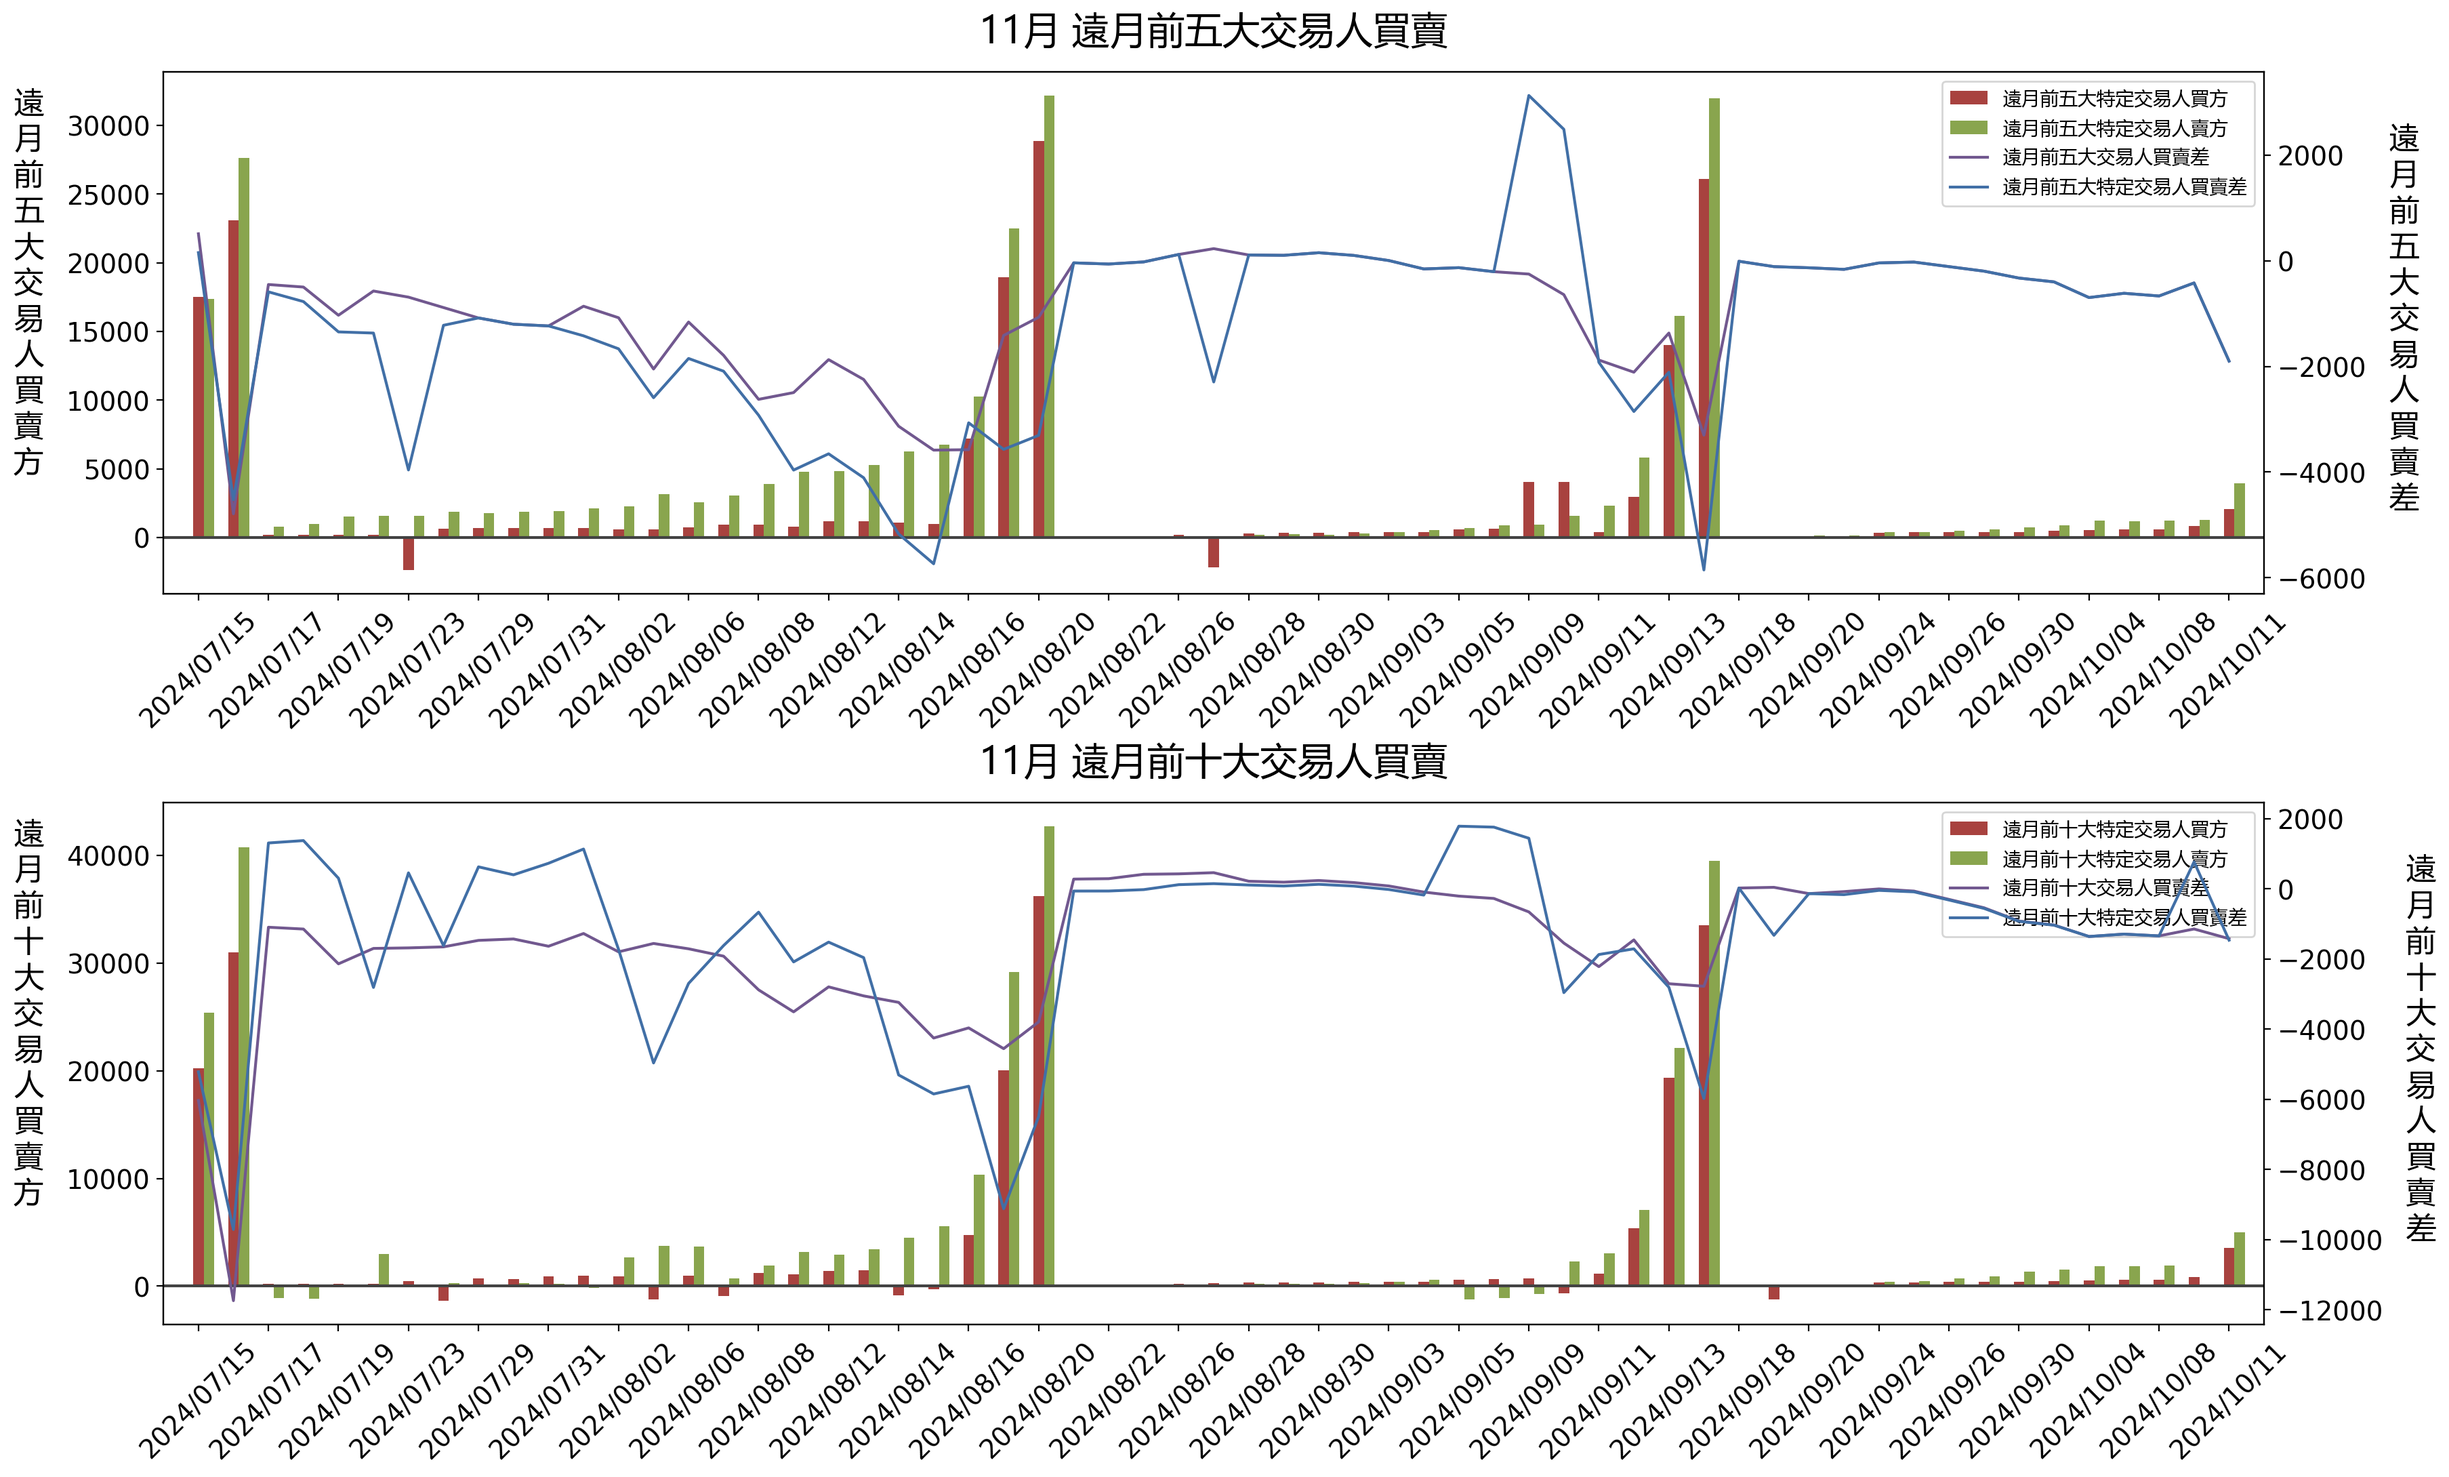
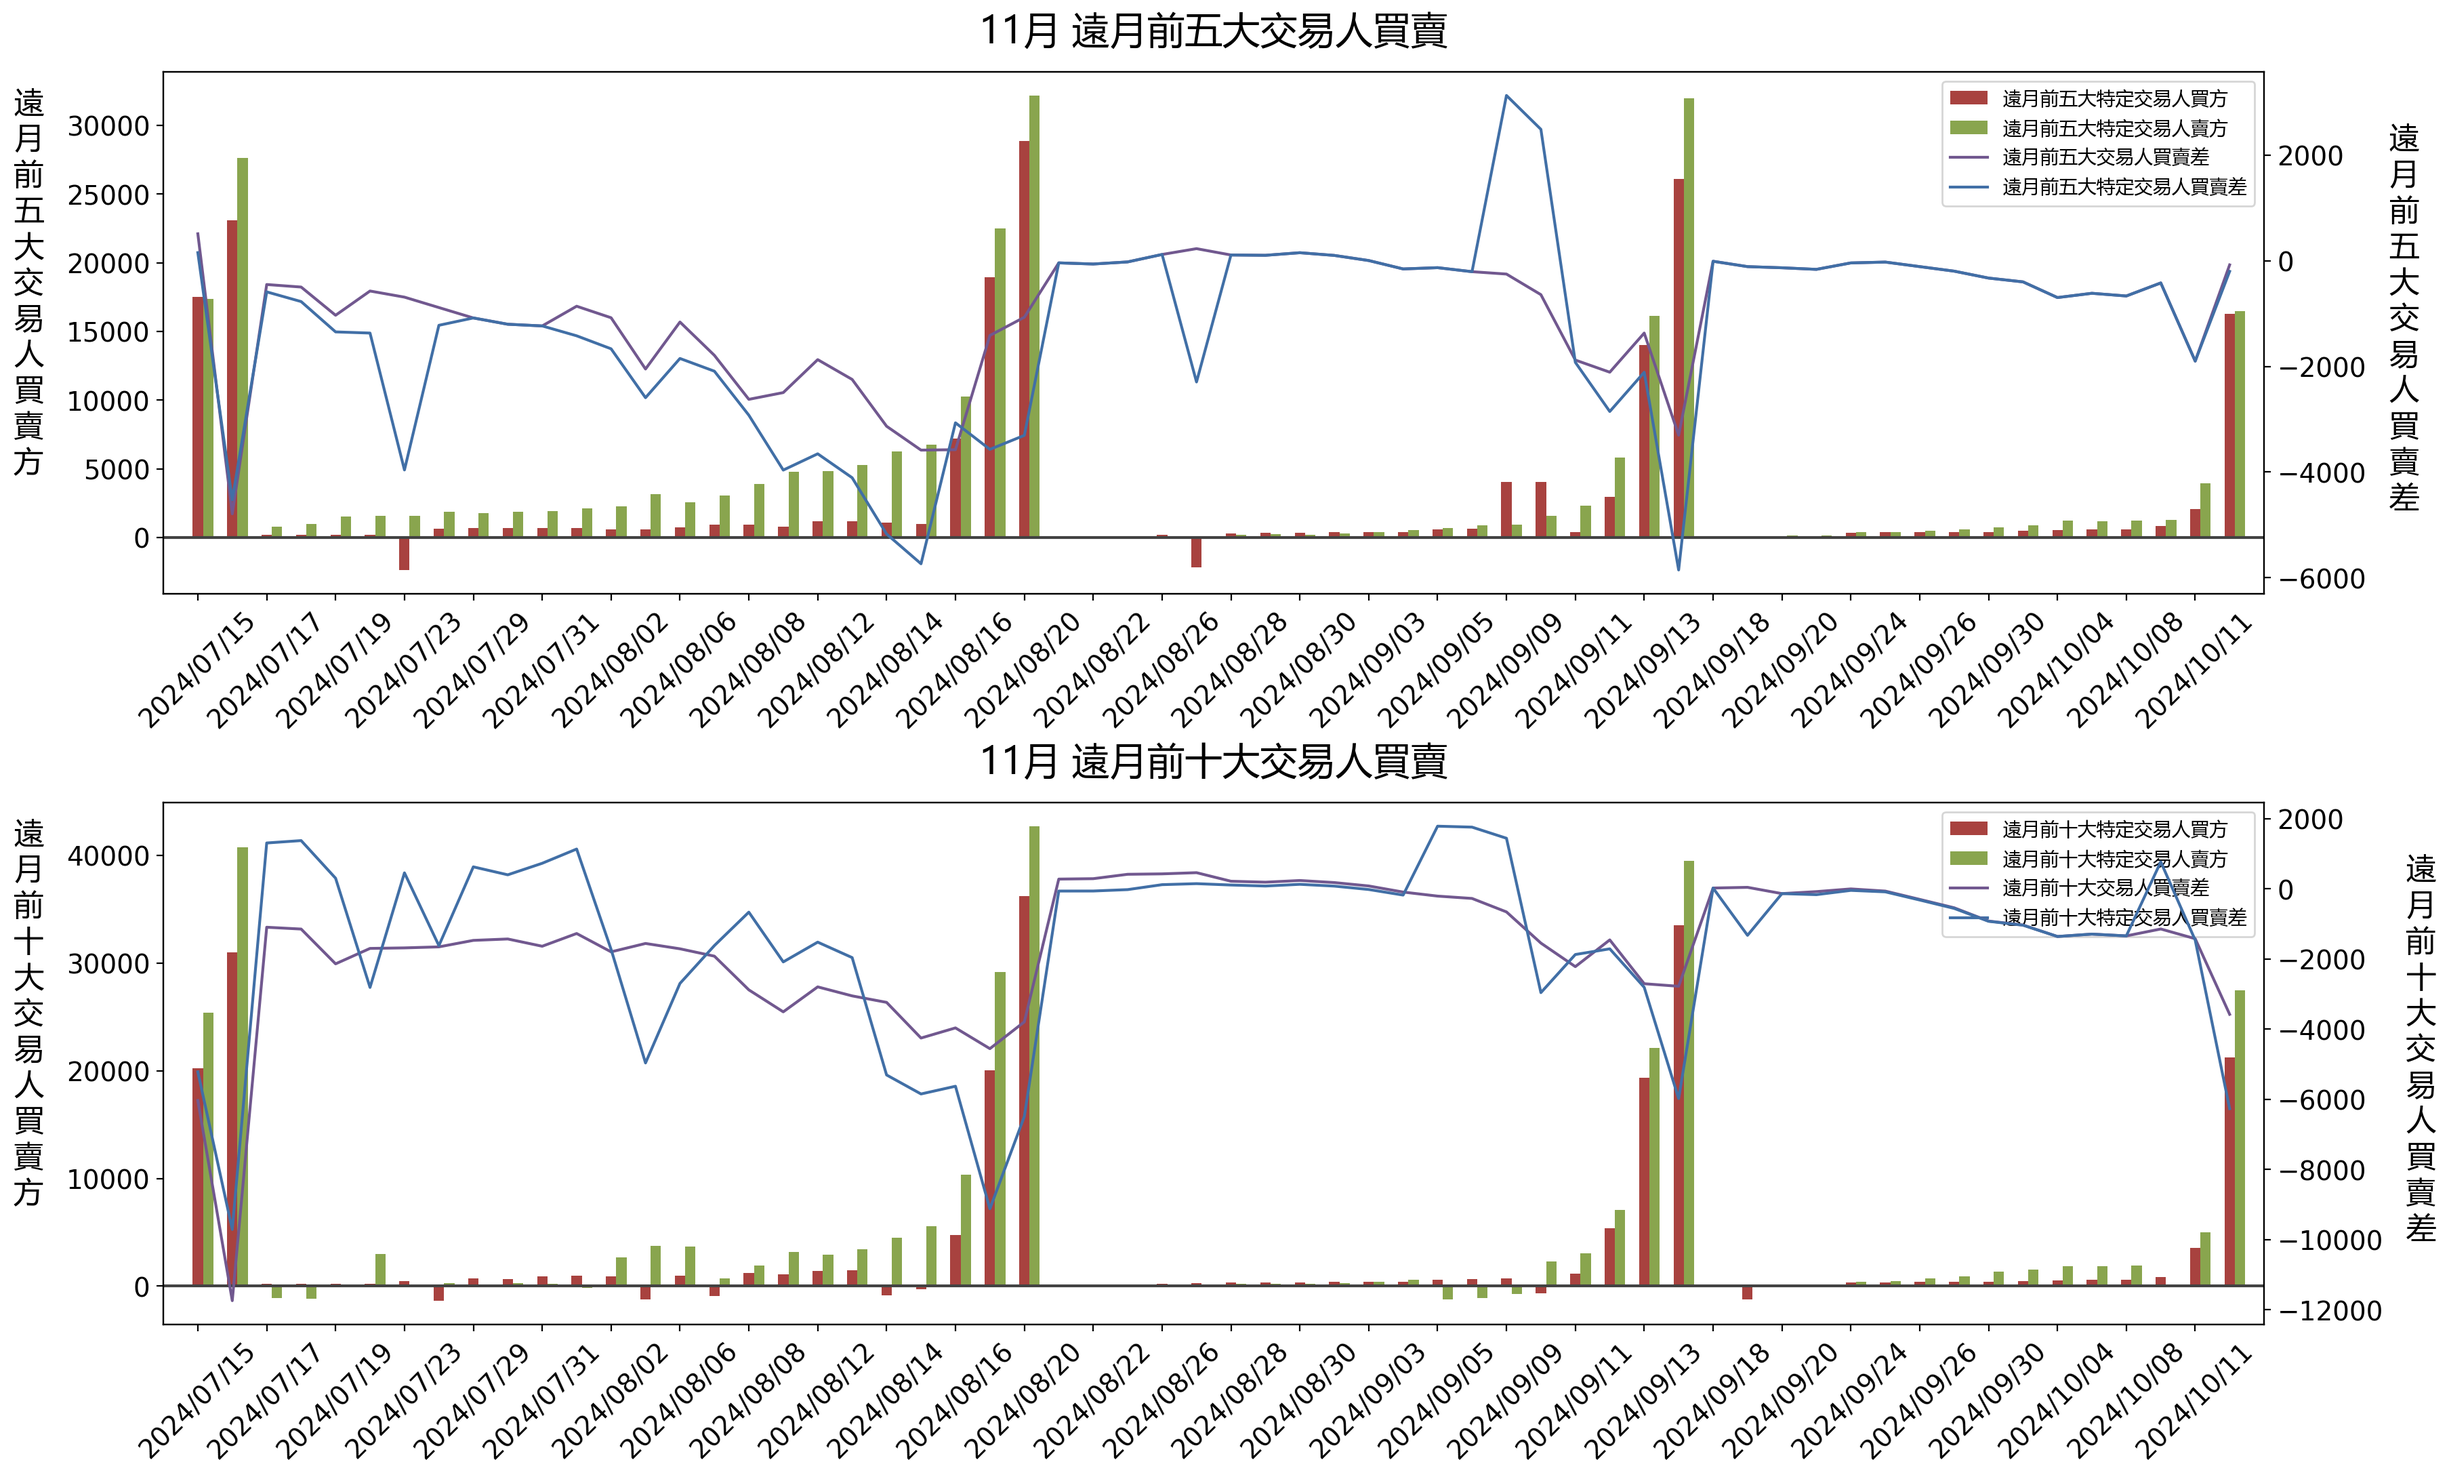
更新時間: Mon Oct 14 16:34:53 CST 2024

diff --git a/README.md b/README.md
@@ -1,12 +1,12 @@
-## 20241013 台指期「預估換倉成本」
+## 20241014 台指期「預估換倉成本」
 ![](images/txfcost.png)
 
-## 20241013 台指期「散戶小台多空比」
+## 20241014 台指期「散戶小台多空比」
 ![](images/bbiri.png)
 
-## 20241013 台指選擇權「Put/Call Ratios」
+## 20241014 台指選擇權「Put/Call Ratios」
 ![](images/pcratio.png)
 
-## 20241013 台指期「大額交易人」
+## 20241014 台指期「大額交易人」
 ![](images/blocktrade.png)
 
